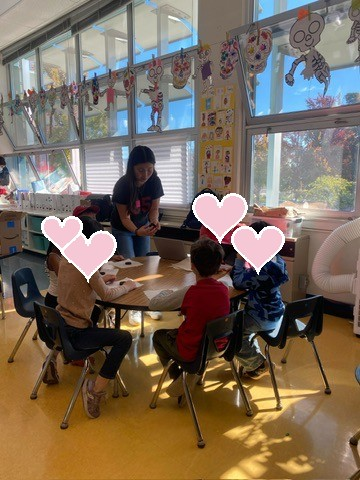
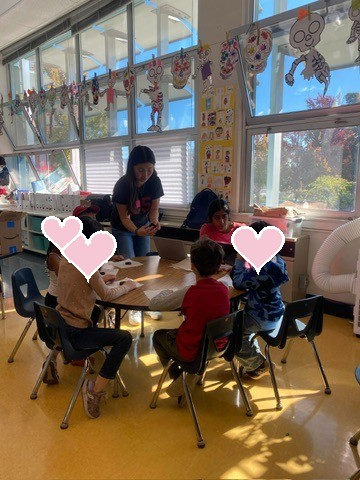
Uncovered Sharini in classroom photo; film strip leads with French toast, drops kids cooking

Changed region(s): [[0.5194, 0.4062, 0.7028, 0.5]]

diff --git a/margins/index.html b/margins/index.html
@@ -140,7 +140,7 @@
           <figcaption class="margin-caption">Prep crew.</figcaption>
         </figure>
         <figure class="margin-card">
-          <img src="../assets/images/margins/art-class.jpg" alt="A volunteer helping kids at a classroom table, hearts covering the kids’ faces" loading="lazy">
+          <img src="../assets/images/margins/art-class.jpg" alt="Volunteers helping kids at a classroom table, hearts covering the kids’ faces" loading="lazy">
           <figcaption class="margin-caption">Back in the classroom.</figcaption>
         </figure>
       </div>
@@ -203,12 +203,11 @@
     <p class="margins-intro">Places I stopped to look at.</p>
     <div class="film-strip-wrap">
       <div class="film-strip" tabindex="0" aria-label="Photography film strip, scrolls sideways">
+        <figure class="film-frame"><img src="../assets/images/photos/photo-19.jpg" alt="French toast with berries, cream drizzle and an orchid on a gray plate" loading="lazy"></figure>
         <figure class="film-frame"><img src="../assets/images/photos/photo-18.jpg" alt="Oracle Park at dusk with the Bay Bridge behind the scoreboard" loading="lazy"></figure>
         <figure class="film-frame"><img src="../assets/images/photos/photo-15.jpg" alt="The Painted Ladies in San Francisco with a crowd gathered on the street below" loading="lazy"></figure>
         <figure class="film-frame"><img src="../assets/images/photos/photo-16.jpg" alt="Kids playing in the waves on a sunny beach" loading="lazy"></figure>
         <figure class="film-frame"><img src="../assets/images/photos/photo-17.jpg" alt="An acrylic tiger painting and a pink floral canvas laid out with paints and brushes" loading="lazy"></figure>
-        <figure class="film-frame"><img src="../assets/images/margins/kids-cooking-2.jpg" alt="Kids serving biscuits and whipped cream, hearts covering their faces" loading="lazy"></figure>
-        <figure class="film-frame"><img src="../assets/images/photos/photo-19.jpg" alt="French toast with berries, cream drizzle and an orchid on a gray plate" loading="lazy"></figure>
       </div>
     </div>
     <p class="film-hint">Scroll sideways →</p>
